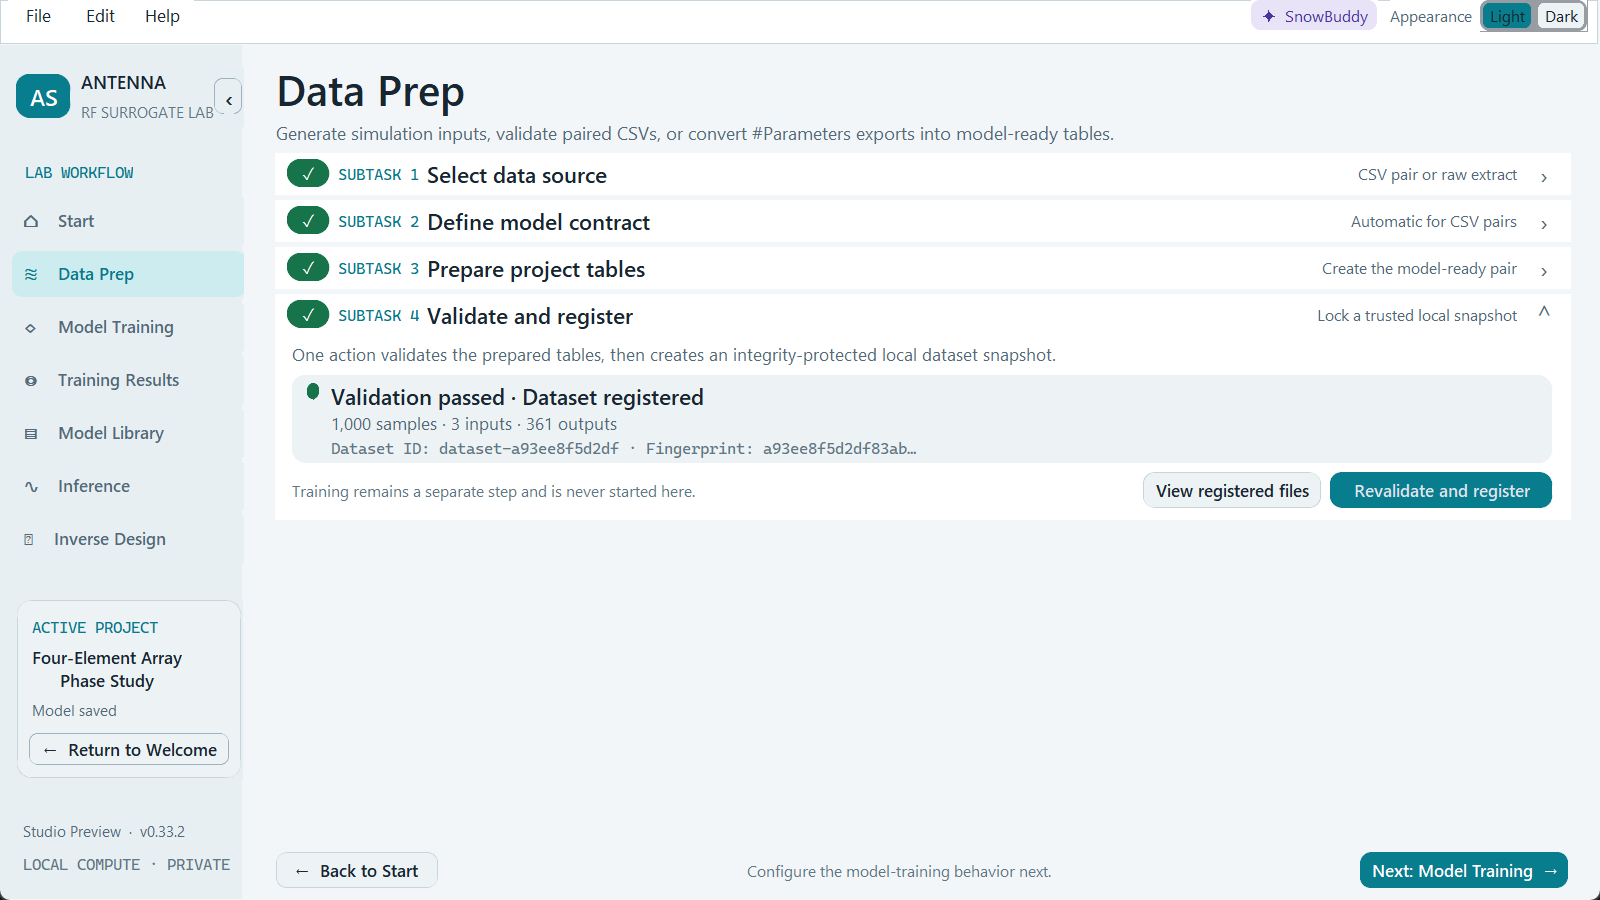
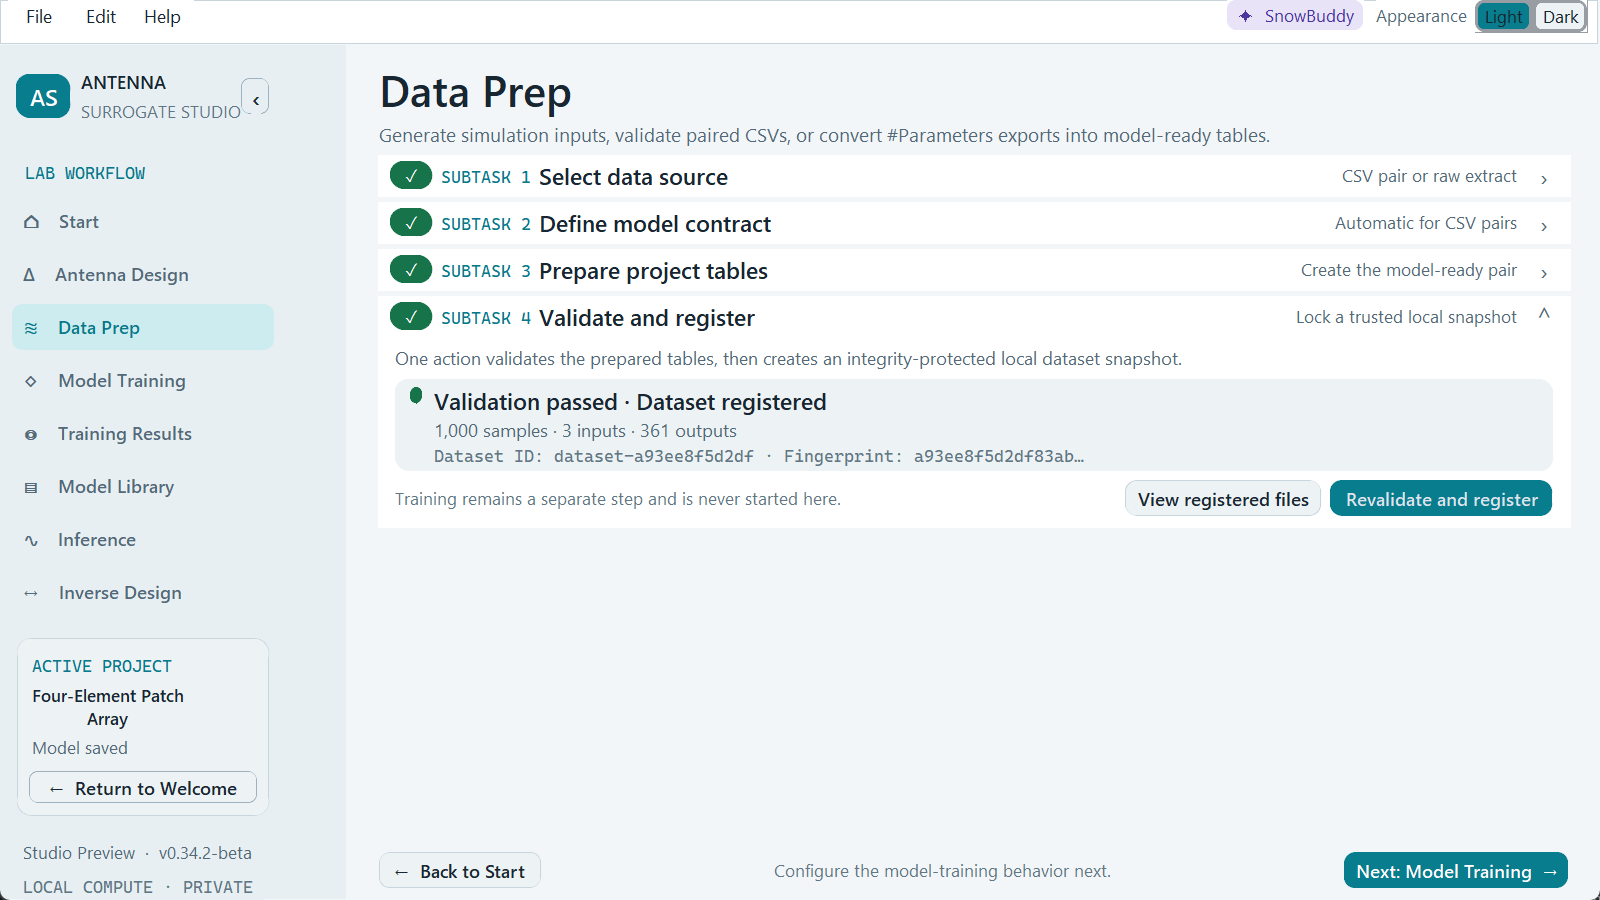
Recapture the README screenshots on the current build
The three hero screenshots still showed v0.33.2 and the old "RF Surrogate
Lab" branding, and the inverse-design shot had clipped text and a legend over
the curve. They are retaken from the current build on the bundled sample:
the registered 1,000-sample dataset, a Linear Regression / XGBoost / Neural
Network comparison, and a Neural Network inverse design maximising gain at
theta 20 degrees. The alt text now describes what each image shows.

diff --git a/README.md b/README.md
@@ -29,12 +29,12 @@ simulate before trusting it.
     </td>
     <td width="33%">
       <a href="docs/screenshots/02-model-comparison.png">
-        <img src="docs/screenshots/02-model-comparison.png" alt="Validation-backed Linear Regression and XGBoost model comparison">
+        <img src="docs/screenshots/02-model-comparison.png" alt="Validation-backed comparison of Linear Regression, XGBoost and Neural Network surrogates, with Neural Network recommended">
       </a>
     </td>
     <td width="33%">
       <a href="docs/screenshots/03-inverse-design.png">
-        <img src="docs/screenshots/03-inverse-design.png" alt="Inverse-design result and scientific radiation-pattern plot">
+        <img src="docs/screenshots/03-inverse-design.png" alt="Inverse design maximising gain at theta 20 degrees, with the optimised phases and the predicted radiation pattern">
       </a>
     </td>
   </tr>

diff --git a/CHANGELOG.md b/CHANGELOG.md
@@ -19,6 +19,8 @@ the documentation now matches the application.
   regardless of case and spacing, the known material aliases are accepted, and
   an unknown material is refused with the list of installed materials so the
   planner can correct itself.
+- **The Model Comparison recommendation is no longer cut off.** Its banner had
+  a fixed height, so a reason that wrapped to three lines lost its last line.
 
 ### Changed
 
